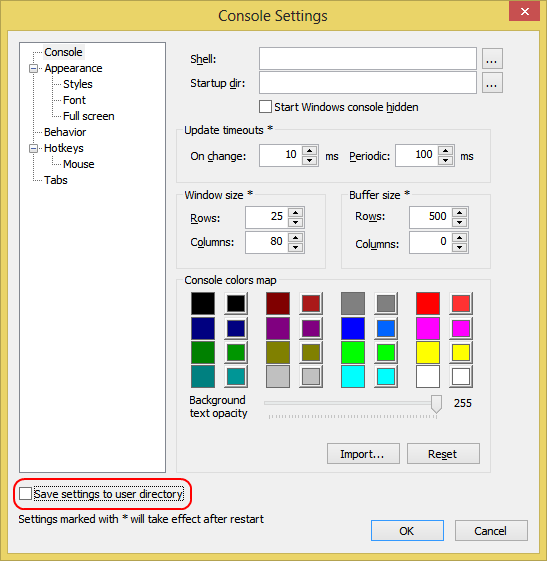
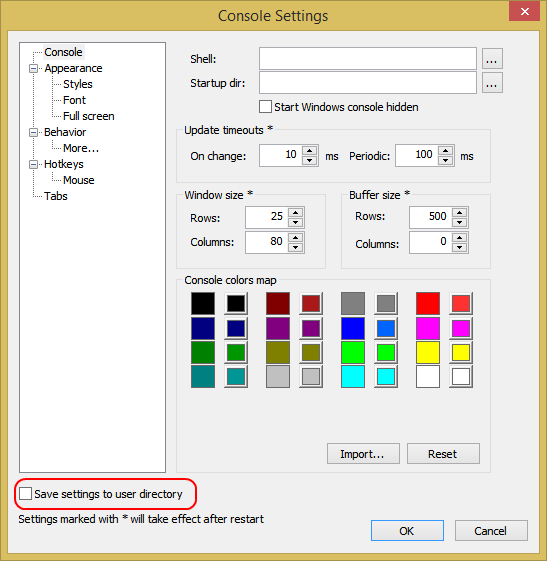
version 1.10.0.14087

diff --git a/help/html/settings_appearance.html b/help/html/settings_appearance.html
@@ -44,8 +44,8 @@
 		<table>
 			<tr><td><b>%u</b>               </td><td><u>U</u>ser name                                              </td></tr>
 			<tr><td><b>%p</b>               </td><td><u>P</u>ID                                                    </td></tr>
-			<tr><td><b>%n</b>               </td><td>Tab <u>n</u>umber (the position in the tabs bar)              </td></tr>
-			<tr><td><b>%i</b>               </td><td>Tab <u>i</u>ndex (the position in the settings)               </td></tr>
+			<tr><td><b>%n</b>               </td><td>Tab <u>n</u>umber (the position in tabs bar)                  </td></tr>
+			<tr><td><b>%i</b>               </td><td>Tab <u>i</u>ndex (the position in settings)                   </td></tr>
 			<tr><td><b>%m</b>               </td><td><u>M</u>ain window title (defined in settings or -w parameter)</td></tr>
 			<tr><td><b>%t</b>               </td><td><u>T</u>ab title (defined in settings)                        </td></tr>
 			<tr><td><b>%s</b>               </td><td><u>S</u>hell title                                            </td></tr>

diff --git a/help/html/settings_behavior_more.html b/help/html/settings_behavior_more.html
@@ -1,0 +1,30 @@
+<!DOCTYPE html PUBLIC "-//W3C//DTD XHTML 1.0 Strict//EN" "http://www.w3.org/TR/xhtml1/DTD/xhtml1-strict.dtd">
+<html xmlns="http://www.w3.org/1999/xhtml" xml:lang="en">
+
+<head>
+	<title>Settings - Behavior</title>
+	<meta http-equiv="content-type" content='text/html; charset=utf-8' />
+	<link rel="stylesheet" type="text/css" href="../styles/help.css" />
+</head>
+
+<body>
+	<h1>Settings - Behavior</h1>
+
+	<p>
+	<img src="../images/settings_behavior_more.png" />
+	</p>
+
+	<h2>Split/Clone</h2>
+
+	<p class="block-row-name">Open new shell in current directory</p>
+	<p class="block-row-description">
+		If checked, new shell created by following actions will use the same current directory as the active view:<br />
+		Split the current view horizontally<br />
+		Split the current view vertically<br />
+		Clone the current view in a new tab
+	</p>
+	<br />
+
+</body>
+
+</html>

diff --git a/help/html/settings_appearance_styles.html b/help/html/settings_appearance_styles.html
@@ -105,7 +105,10 @@
 
 	<p class="block-row-name">Quake like</p>
 	<p class="block-row-description">
-		If checked, Console use a quake console like effect when showing or hiding.
+		If checked, Console use a quake console like effect when showing or hiding.<br />
+		This animation requires a global hotkey to hide/show the application.<br />
+		Window must be docked to a screen edge (select <i>Docking</i> in <i>Settings/Appearance</i>).<br />
+		If AERO is active, non client aera is not supported. Consider to uncheck <i>Caption</i> and <i>Resizing</i>.
 	</p>
 	<br />
 

diff --git a/help/html/settings_behavior.html b/help/html/settings_behavior.html
@@ -137,6 +137,7 @@
 	<p class="block-row-description">
 		If checked, a confirmation message is displayed before closing multiple tabs/views.
 	</p>
+	<br />
 
 	<h2>Focus</h2>
 

diff --git a/shared/version.h b/shared/version.h
@@ -3,7 +3,7 @@
 #define VERSION_MAJOR     1
 #define VERSION_MINOR     10
 #define VERSION_BUILD     0
-#define VERSION_BUILD2    14030
+#define VERSION_BUILD2    14087
 #define VERSION_FILE      "1.10.0"
-#define VERSION_PRODUCT   "1, 10, 0, 14030"
+#define VERSION_PRODUCT   "1, 10, 0, 14087"
 #define VERSION_COPYRIGHT "Copyright (C) 2011-2014 Bucher Christophe"

diff --git a/README.md b/README.md
@@ -28,19 +28,24 @@ Changelog
     + added
     * fixed
 
-Changes in 1.10.0 (beta) (30 Jan 2014)
+Changes in 1.10.0 (beta) (28 Mar 2014)
 
     ! Tab number is now full part of the title.
     ! Main title format can be defined by user.
     ! Tab title format can be defined by user.
+    ! Remove "Administrator:" prefix.
     + Input Method Editor (IME) support.
     + Allow selection by column.
+    + Clone current view in a new tab.
+    + Clone/Split using the current directory.
     * Fix "pinned to desktop" mode on Windows 7 and more.
     * Fix paste inconsistency on multiple lines.
     * Fix Quake like show/hide animation.
     * Tab text was hidden when less than 12 pixels.
     * Fix Quake like show/hide.
     * Fix some crashes.
+    * Fix starting directory.
+    * Fix VIM dead char.
 
 Changes in 1.09.1 (17 Dec 2013)
 
